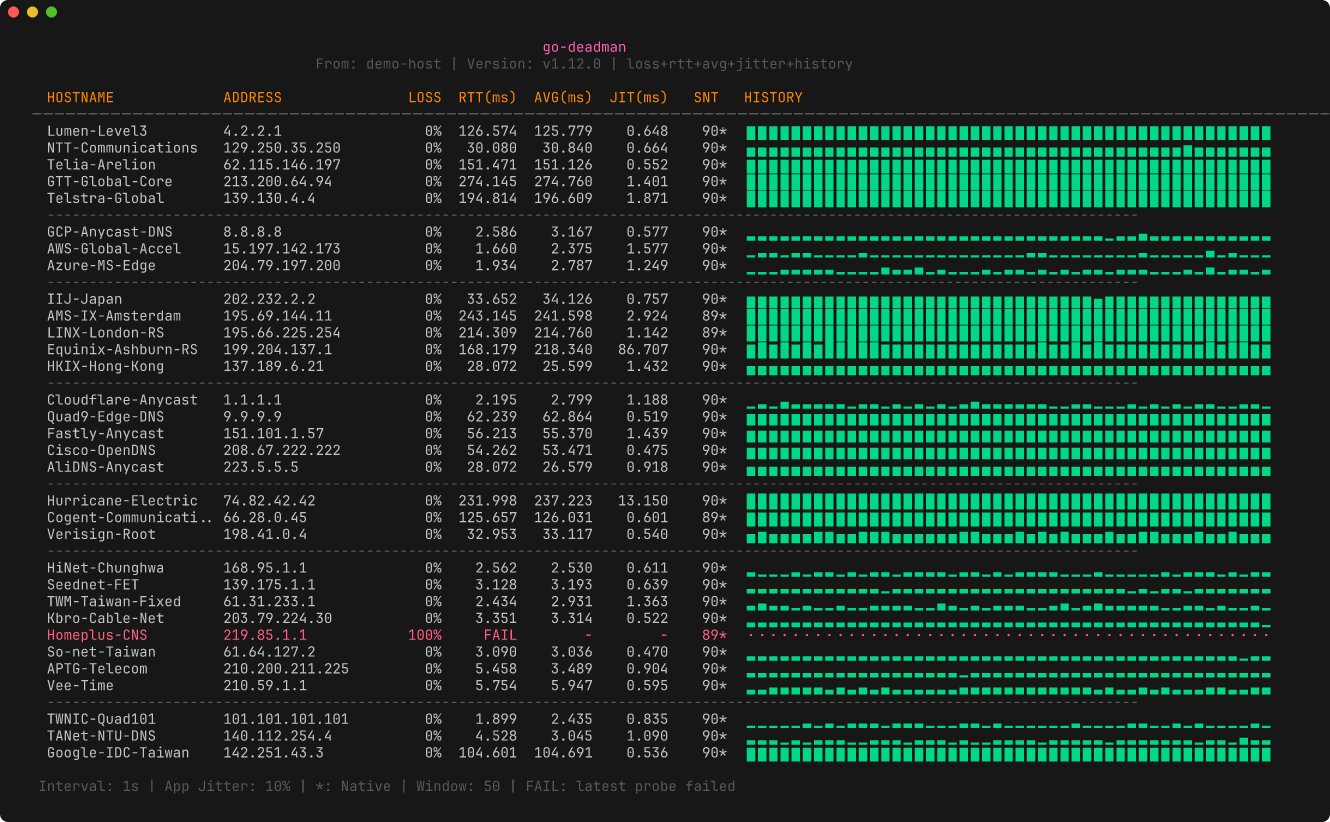
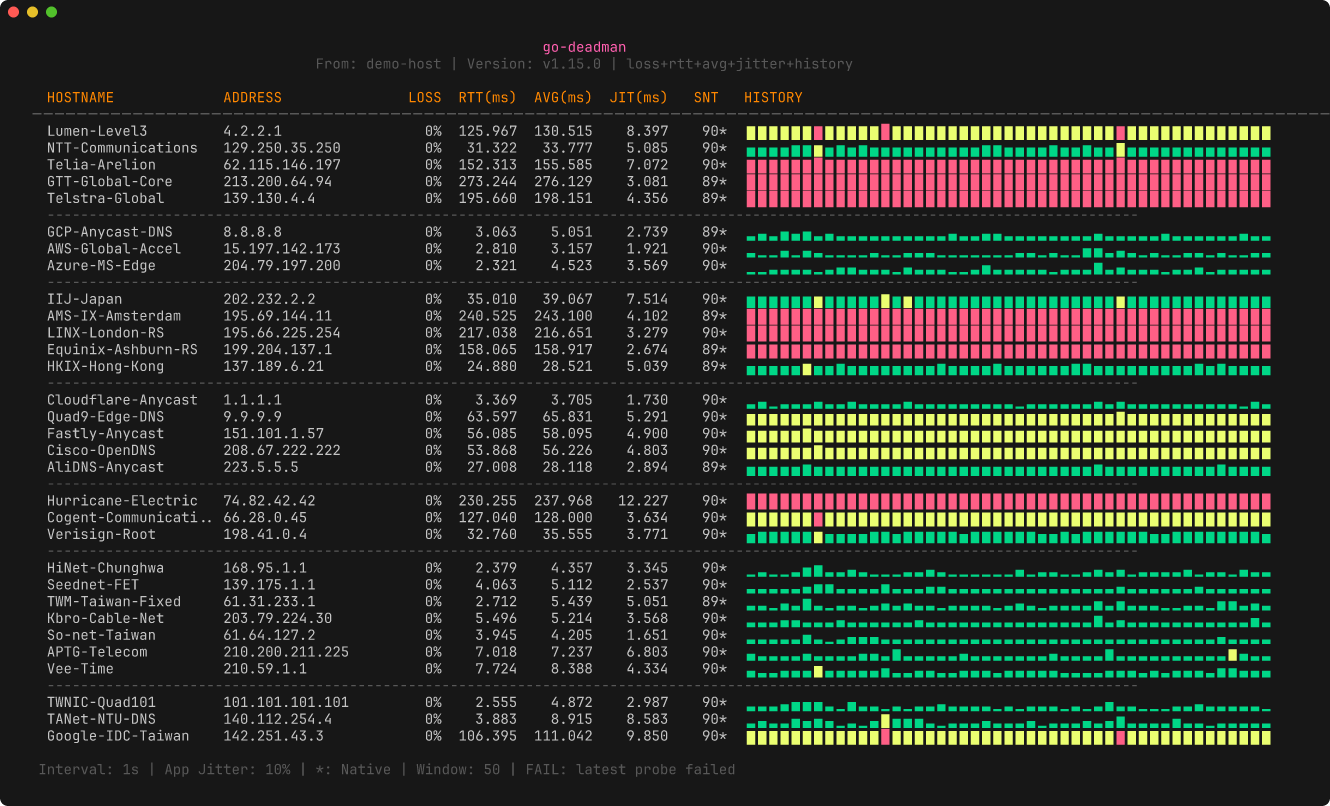
v1.15.0: color HISTORY by latency, full red block for loss
- History bars keep the log scale but are colored by absolute latency
  (green < 50 ms, yellow < 150 ms, red >= 150 ms)
- Lost probes are a full red block; latency bars stop at ▇ so the two
  never look alike
- Heartbeat stores the RTT; rendering moved to tui.renderHistory
- New real-data screenshot

Changed region(s): [[0.2774, 0.031, 0.9556, 0.9615], [0.0308, 0.0931, 0.2774, 0.9615], [0.9865, 0.1241, 1.0, 0.1551]]

diff --git a/internal/tui/tui.go b/internal/tui/tui.go
@@ -19,6 +19,7 @@ var (
 	titleStyle   = lipgloss.NewStyle().Bold(true).Foreground(lipgloss.Color("205"))
 	headerStyle  = lipgloss.NewStyle().Foreground(lipgloss.Color("208")).Bold(true)
 	upStyle      = lipgloss.NewStyle().Foreground(lipgloss.Color("10"))
+	warnStyle    = lipgloss.NewStyle().Foreground(lipgloss.Color("11"))
 	downStyle    = lipgloss.NewStyle().Foreground(lipgloss.Color("9"))
 	dimStyle     = lipgloss.NewStyle().Foreground(lipgloss.Color("240"))
 	arrowStyle   = lipgloss.NewStyle().Foreground(lipgloss.Color("6")).Bold(true)
@@ -253,6 +254,51 @@ func formatLoss(rate float64) string {
 	}
 }
 
+// ---------------------------------------------------------
+// HISTORY sparkline
+// ---------------------------------------------------------
+
+// 柱高沿用對數刻度（底數 2.4：1ms 為 ▁、約 190ms 以上為 ▇）。
+// 延遲柱最高只到 ▇，█ 保留給掉包，即使同為紅色也能以形狀區分。
+var barChars = []string{"▁", "▂", "▃", "▄", "▅", "▆", "▇"}
+
+const (
+	lossChar = "█"
+	warnRTT  = 50.0  // 毫秒；以上為黃色
+	badRTT   = 150.0 // 毫秒；以上為紅色
+)
+
+func barLevel(rtt float64) int {
+	lvl := int(math.Log(math.Max(1, rtt)) / math.Log(2.4))
+	return max(min(lvl, len(barChars)-1), 0)
+}
+
+// latencyStyle 以絕對延遲上色：<50ms 綠、<150ms 黃、其餘紅
+func latencyStyle(rtt float64) lipgloss.Style {
+	switch {
+	case rtt < warnRTT:
+		return upStyle
+	case rtt < badRTT:
+		return warnStyle
+	default:
+		return downStyle
+	}
+}
+
+// renderHistory 畫出最近 width 筆探測（最新在左）；顏色代表延遲高低，掉包為整格紅色
+func renderHistory(ds monitor.Snapshot, width int) string {
+	var b strings.Builder
+	for j := 1; j <= min(ds.HistCount, width); j++ {
+		h := ds.Recent(j)
+		if !h.Success {
+			b.WriteString(downStyle.Render(lossChar))
+			continue
+		}
+		b.WriteString(latencyStyle(h.RTT).Render(barChars[barLevel(h.RTT)]))
+	}
+	return b.String()
+}
+
 func fmtMs(v float64, ok bool) string {
 	switch {
 	case !ok:
@@ -352,14 +398,7 @@ func renderRow(l layout, ds monitor.Snapshot) string {
 		if ds.DNSFail {
 			hist.WriteString(downStyle.Render(truncWidth("DNS RESOLVE FAILED, retrying", l.hist)))
 		} else {
-			for j := 1; j <= min(ds.HistCount, l.hist); j++ {
-				h := ds.Recent(j)
-				if h.Success {
-					hist.WriteString(upStyle.Render(h.Char))
-				} else {
-					hist.WriteString(downStyle.Render(h.Char))
-				}
-			}
+			hist.WriteString(renderHistory(ds, l.hist))
 		}
 	}
 

diff --git a/internal/tui/tui_test.go b/internal/tui/tui_test.go
@@ -195,3 +195,51 @@ func TestQuitKey(t *testing.T) {
 		t.Fatal("q should return tea.Quit")
 	}
 }
+
+func TestBarLevel(t *testing.T) {
+	top := len(barChars) - 1
+	cases := map[float64]int{
+		0.3:  0,   // 未滿 1ms 視為 1ms
+		1:    0,   // ▁
+		2.4:  1,   // ▂
+		6:    2,   // ▃
+		14:   3,   // ▄
+		34:   4,   // ▅
+		80:   5,   // ▆
+		200:  top, // ▇
+		5000: top, // 再高也只到 ▇，█ 留給掉包
+	}
+	for rtt, want := range cases {
+		if got := barLevel(rtt); got != want {
+			t.Errorf("barLevel(%v) = %d, want %d", rtt, got, want)
+		}
+	}
+}
+
+func TestRenderHistory(t *testing.T) {
+	d := &monitor.Device{}
+	for _, p := range []struct {
+		rtt float64
+		ok  bool
+	}{{2.5, true}, {300, true}, {0, false}, {35, true}} {
+		d.UpdateStats(p.rtt, p.ok, true)
+	}
+	// 最新在左：35、掉包、300、2.5
+	if got, want := renderHistory(d.Snapshot(), 10), "▅█▇▂"; got != want {
+		t.Errorf("renderHistory = %q, want %q", got, want)
+	}
+	if got := renderHistory(d.Snapshot(), 2); got != "▅█" {
+		t.Errorf("width-limited history = %q", got)
+	}
+	if renderHistory((&monitor.Device{}).Snapshot(), 10) != "" {
+		t.Error("empty history should render nothing")
+	}
+}
+
+func TestLatencyStyle(t *testing.T) {
+	if latencyStyle(10).GetForeground() != upStyle.GetForeground() ||
+		latencyStyle(80).GetForeground() != warnStyle.GetForeground() ||
+		latencyStyle(150).GetForeground() != downStyle.GetForeground() {
+		t.Error("latency color thresholds wrong")
+	}
+}

diff --git a/internal/monitor/stats.go b/internal/monitor/stats.go
@@ -10,8 +10,9 @@ const (
 	WindowSize = 50  // AvgRTT 與 Jitter 的滑動視窗大小
 )
 
+// Heartbeat 是一次已結算的探測；如何畫成 sparkline 由 UI 決定
 type Heartbeat struct {
-	Char    string
+	RTT     float64 // 毫秒；Success 為 false 時無意義
 	Success bool
 }
 
@@ -95,7 +96,7 @@ func (d *Device) UpdateStats(rtt float64, success bool, isNative bool) {
 	}
 	d.LossRate = float64(d.Loss) * 100.0 / float64(d.Snt)
 
-	d.History[d.HistoryIdx] = Heartbeat{Char: getLogChar(rtt, success), Success: success}
+	d.History[d.HistoryIdx] = Heartbeat{RTT: rtt, Success: success}
 	d.HistoryIdx = (d.HistoryIdx + 1) % HistSize
 	if d.HistCount < HistSize {
 		d.HistCount++
@@ -139,22 +140,6 @@ func (d *Device) Snapshot() Snapshot {
 // Recent 回傳倒數第 j 筆歷史（j=1 為最新）
 func (s Snapshot) Recent(j int) Heartbeat {
 	return s.History[(s.HistIdx-j+HistSize)%HistSize]
-}
-
-// getLogChar 以對數刻度把 RTT 對應到 sparkline 字元，底數 2.4 讓約 500ms 落在最高階
-func getLogChar(rtt float64, success bool) string {
-	if !success || rtt <= 0 {
-		return "·"
-	}
-
-	const base = 2.4
-	idx := int(math.Log(math.Max(1, rtt)) / math.Log(base))
-
-	scales := []string{"▁", "▂", "▃", "▄", "▅", "▆", "▇", "█"}
-	if idx >= len(scales) {
-		idx = len(scales) - 1
-	}
-	return scales[idx]
 }
 
 // ---------------------------------------------------------

diff --git a/internal/monitor/stats_test.go b/internal/monitor/stats_test.go
@@ -50,11 +50,15 @@ func TestUpdateStatsWindowSlides(t *testing.T) {
 	}
 }
 
-func TestGetLogChar(t *testing.T) {
-	if getLogChar(0, false) != "·" || getLogChar(10, false) != "·" {
-		t.Error("failure should render as ·")
+func TestHistoryRecordsRTT(t *testing.T) {
+	d := &Device{}
+	d.UpdateStats(12.5, true, true)
+	d.UpdateStats(0, false, true)
+	s := d.Snapshot()
+	if h := s.Recent(1); h.Success {
+		t.Errorf("newest should be the loss: %+v", h)
 	}
-	if getLogChar(0.5, true) != "▁" || getLogChar(10000, true) != "█" {
-		t.Error("scale bounds wrong")
+	if h := s.Recent(2); !h.Success || h.RTT != 12.5 {
+		t.Errorf("older entry = %+v", h)
 	}
 }

diff --git a/cmd/go-deadman/main.go b/cmd/go-deadman/main.go
@@ -20,7 +20,7 @@ import (
 )
 
 // version 於 CI 建置時以 -ldflags "-X main.version=..." 覆寫為 tag 名稱
-var version = "v1.14.0"
+var version = "v1.15.0"
 
 // presetFromExe 讓改名為 go-deadman-<preset>(.exe) 的執行檔預設使用該 preset，
 // 方便在 Windows 上直接雙擊執行不同清單

diff --git a/README.md b/README.md
@@ -111,7 +111,7 @@ The file is validated at startup (interval, jitter range, each device has a name
 | **AVG** | Mean of the last 50 successful RTTs |
 | **JIT** | Mean absolute difference between RTTs of *adjacent successful* probes (last 50 pairs); a lost probe breaks the pair. Same rule in native and fallback mode |
 | **SNT** | Settled probes (replied or timed out). Each sequence number counts once; replies arriving after the timeout are ignored |
-| **HISTORY** | Newest on the left; bar height is log-scaled RTT, `·` = lost |
+| **HISTORY** | Newest on the left. Bar height is log-scaled RTT (`▁` ≈ 1 ms … `▇` ≥ ~190 ms); color is the absolute latency: green < 50 ms, yellow < 150 ms, red ≥ 150 ms. A full red block `█` is a lost probe |
 
 Probe timeout is `max(interval, 1s)` in both modes. On narrow terminals columns drop in this order: HISTORY, SNT, JIT, AVG, ADDRESS, LOSS — HOSTNAME and RTT always stay.
 

diff --git a/CLAUDE.md b/CLAUDE.md
@@ -38,6 +38,7 @@ go test ./internal/monitor -run '^TestName$' -count=1
 - jitter 只配對相鄰兩次都成功的探測。
 - SNT 是已結算（回覆或逾時）的探測數。
 - 探測逾時為 `max(interval, 1s)`，native 與 fallback 共用。
+- HISTORY：柱高為對數刻度（底數 2.4），最高只到 `▇`；顏色依絕對延遲（<50ms 綠、<150ms 黃、其餘紅）；`█` 專門代表掉包（紅色）。`Heartbeat` 只存 RTT 與成功與否，字元與顏色由 `tui.renderHistory` 決定。
 
 修改指標時要同步更新 README 的「Columns」一節與測試。
 
